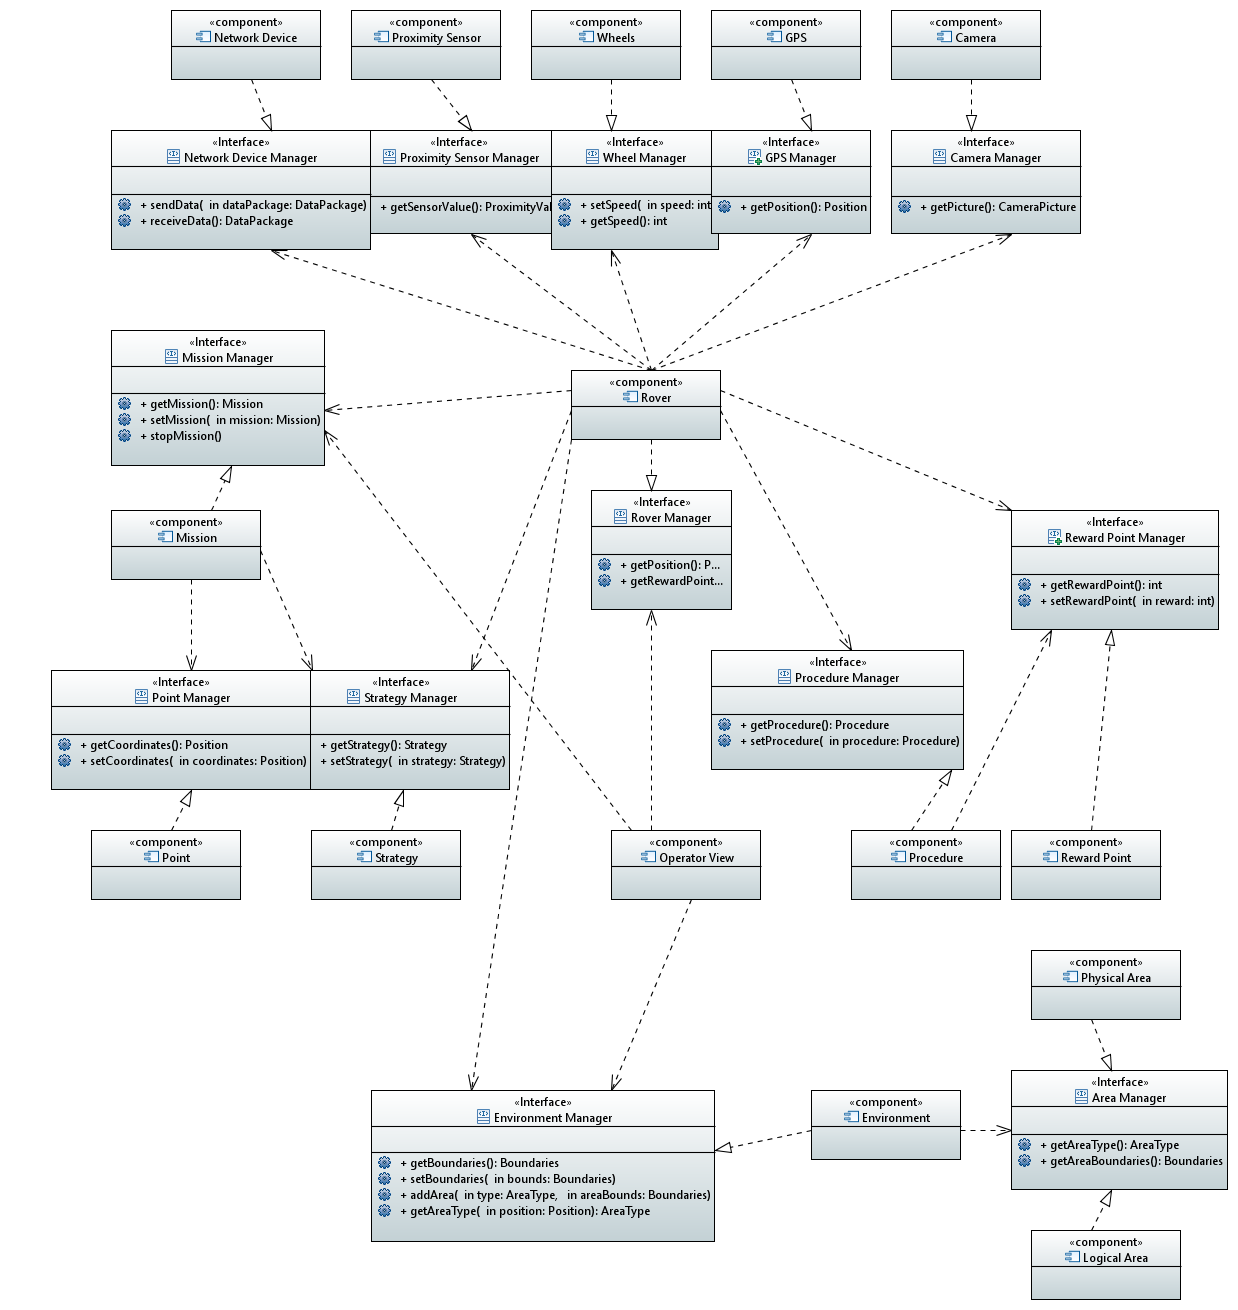
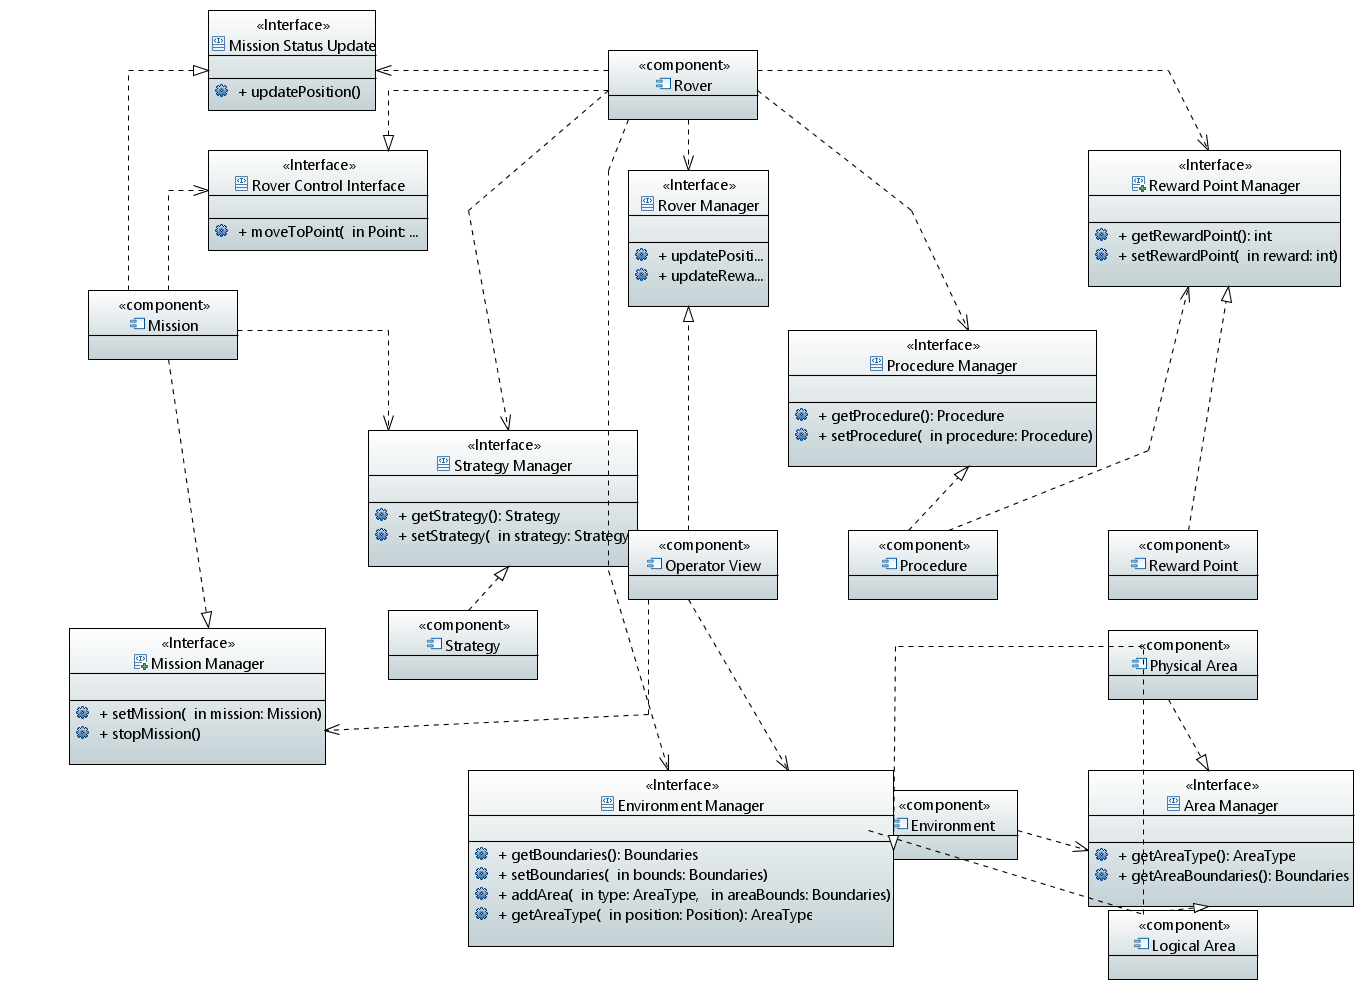
minor fixes

diff --git a/MDSD/src/project/Strategy.java b/MDSD/src/project/Strategy.java
@@ -2,11 +2,12 @@
 // Code generated by Papyrus Java
 // --------------------------------------------------------
 
-package MDSD;
+package project;
 
-import MDSD.Environment;
-import MDSD.Mission;
-import MDSD.Point;
+
+import project.Environment;
+import project.Mission;
+import project.Point;
 
 /************************************************************/
 /**
@@ -20,6 +21,6 @@ public class Strategy {
 	 * @return 
 	 * @param type 
 	 */
-	public Point calculateNextPoint(Mission mission, Environment environment, undefined type) {
+	public Point calculateNextPoint(Mission mission, Environment environment, StrategyTypes type) {
 	}
 };

diff --git a/MDSD/src/project/Mission.java b/MDSD/src/project/Mission.java
@@ -2,10 +2,10 @@
 // Code generated by Papyrus Java
 // --------------------------------------------------------
 
-package MDSD;
+package project;
 
-import MDSD.Point;
-import MDSD.StrategyTypes;
+import project.Position;
+import project.StrategyTypes;
 
 /************************************************************/
 /**
@@ -15,13 +15,15 @@ class Mission {
 	/**
 	 * 
 	 */
+
+
 	public StrategyTypes[] strategyType;
 
 	/**
 	 * 
 	 * @param points 
 	 */
-	public void setMission(Point[] points) {
+	public void setMission(Position[] position) {
 	}
 
 	/**

diff --git a/MDSD/src/project/Rover.java b/MDSD/src/project/Rover.java
@@ -2,10 +2,10 @@
 // Code generated by Papyrus Java
 // --------------------------------------------------------
 
-package MDSD;
+package project;
 
-import MDSD.Environment;
-import MDSD.Point;
+import project.Environment;
+import project.Position;
 
 /************************************************************/
 /**
@@ -26,6 +26,8 @@ public class Rover {
 	 * @return 
 	 */
 	public int getRewardPoints() {
+		int i = 0;
+		return i;
 	}
 
 	/**

diff --git a/MDSD/src/project/Procedure.java b/MDSD/src/project/Procedure.java
@@ -2,10 +2,10 @@
 // Code generated by Papyrus Java
 // --------------------------------------------------------
 
-package MDSD;
+package project;
 
-import MDSD.Area;
-import MDSD.ProcedureType;
+import project.Area;
+import project.ProcedureType;
 
 /************************************************************/
 /**

diff --git a/MDSD/src/project/Position.java b/MDSD/src/project/Position.java
@@ -8,13 +8,21 @@ package project;
 /**
  * 
  */
-public enum StrategyTypes {
+public class Position {
 	/**
 	 * 
 	 */
-	optimizeLength,
+	private int x;
 	/**
 	 * 
 	 */
-	optimizeTime;
+	private int y;
+
+	/**
+	 * 
+	 * @param x 
+	 * @param y 
+	 */
+	public void updatePosition(int x, int y) {
+	}
 };

diff --git a/MDSD/src/project/User.java b/MDSD/src/project/User.java
@@ -2,9 +2,9 @@
 // Code generated by Papyrus Java
 // --------------------------------------------------------
 
-package MDSD;
+package project;
 
-import MDSD.Rover;
+import project.Rover;
 
 /************************************************************/
 /**

diff --git a/MDSD/src/project/PhysicalArea.java b/MDSD/src/project/PhysicalArea.java
@@ -2,9 +2,9 @@
 // Code generated by Papyrus Java
 // --------------------------------------------------------
 
-package MDSD;
+package project;
 
-import MDSD.Area;
+import project.Area;
 
 /************************************************************/
 /**

diff --git a/MDSD/src/project/ProcedureType.java b/MDSD/src/project/ProcedureType.java
@@ -2,7 +2,7 @@
 // Code generated by Papyrus Java
 // --------------------------------------------------------
 
-package MDSD;
+package project;
 
 /************************************************************/
 /**
